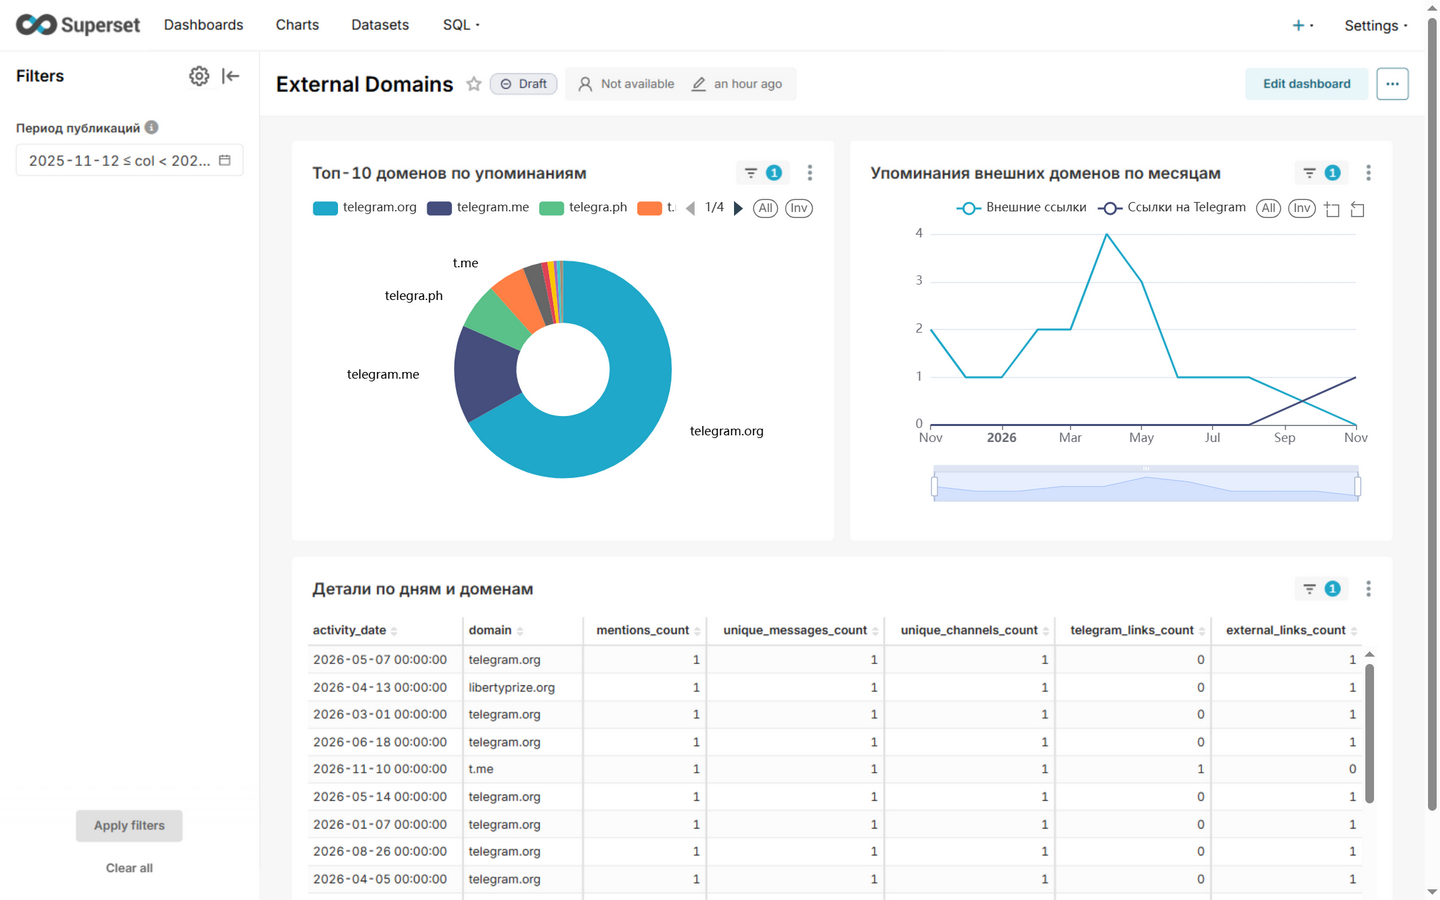
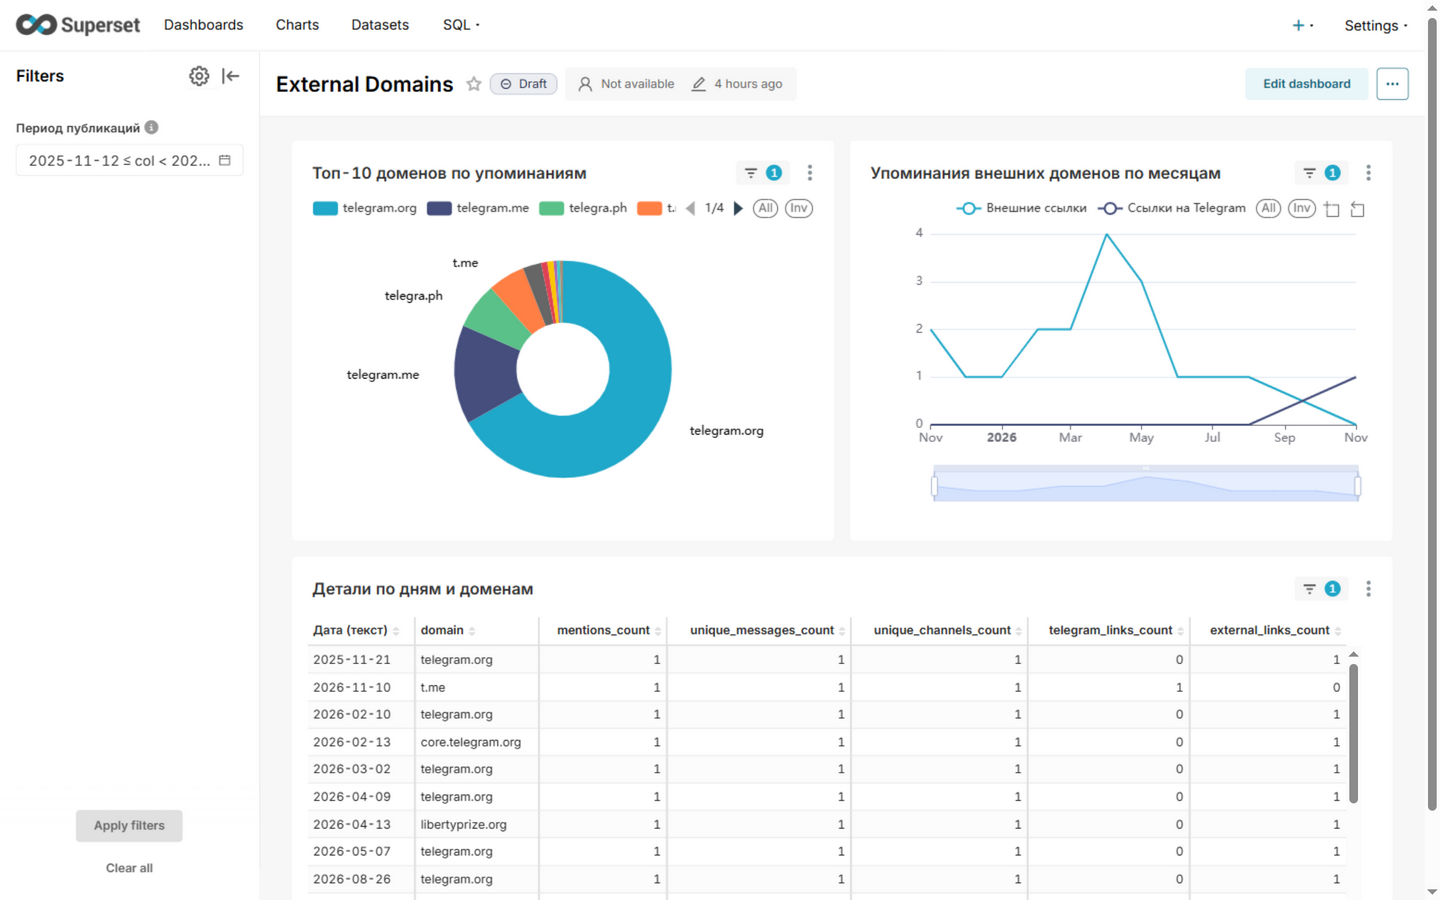
таблицы: дата без 00:00:00 — текстовая колонка activity_date_str
raw-records таблицы Superset игнорируют формат temporal-колонок,
поэтому bootstrap добавляет в датасеты вычисляемую колонку
CAST(activity_date AS VARCHAR), а таблицы показывают её вместо
activity_date. Скриншот External Domains обновлён.

diff --git a/docker/superset/bootstrap_superset.py b/docker/superset/bootstrap_superset.py
@@ -84,7 +84,7 @@ TABLE_BASE = {
     "row_limit": 1000,
     "time_range": "Last 1 year",
     "order_desc": True,
-    "column_config": {"activity_date": {"format": DATE_FORMAT}},
+    "column_config": {"activity_date_str": {"format": DATE_FORMAT}},
 }
 KPI_BASE = {
     # big_number (с трендлайном), а не big_number_total: у total нет
@@ -113,7 +113,9 @@ def _bar(metrics: list[dict]) -> dict:
 
 def _table(columns: list[str]) -> dict:
     p = dict(TABLE_BASE)
-    p["all_columns"] = columns
+    # в таблицах показываем текстовую колонку даты: raw-records таблицы
+    # игнорируют формат temporal-колонок и рисуют 00:00:00
+    p["all_columns"] = ["activity_date_str" if c == "activity_date" else c for c in columns]
     return p
 
 
@@ -420,6 +422,15 @@ def main() -> None:
                 for col in ds.columns:
                     if col.column_name in DATE_COLUMNS and (col.type or "").startswith("DATE"):
                         col.python_date_format = DATE_FORMAT
+                # текстовая колонка даты для таблиц (raw records в таблицах
+                # игнорирует формат temporal-колонок и рисует 00:00:00)
+                if not any(c.column_name == "activity_date_str" for c in ds.columns):
+                    ds.columns.append(TableColumn(
+                        column_name="activity_date_str",
+                        expression="CAST(activity_date AS VARCHAR)",
+                        type="VARCHAR", is_dttm=False, groupby=True, filterable=True,
+                        verbose_name="Дата (текст)",
+                    ))
                 db.session.commit()
             except Exception as exc:
                 print(f"WARN: {name}: metadata refresh failed: {repr(exc)[:120]}")
